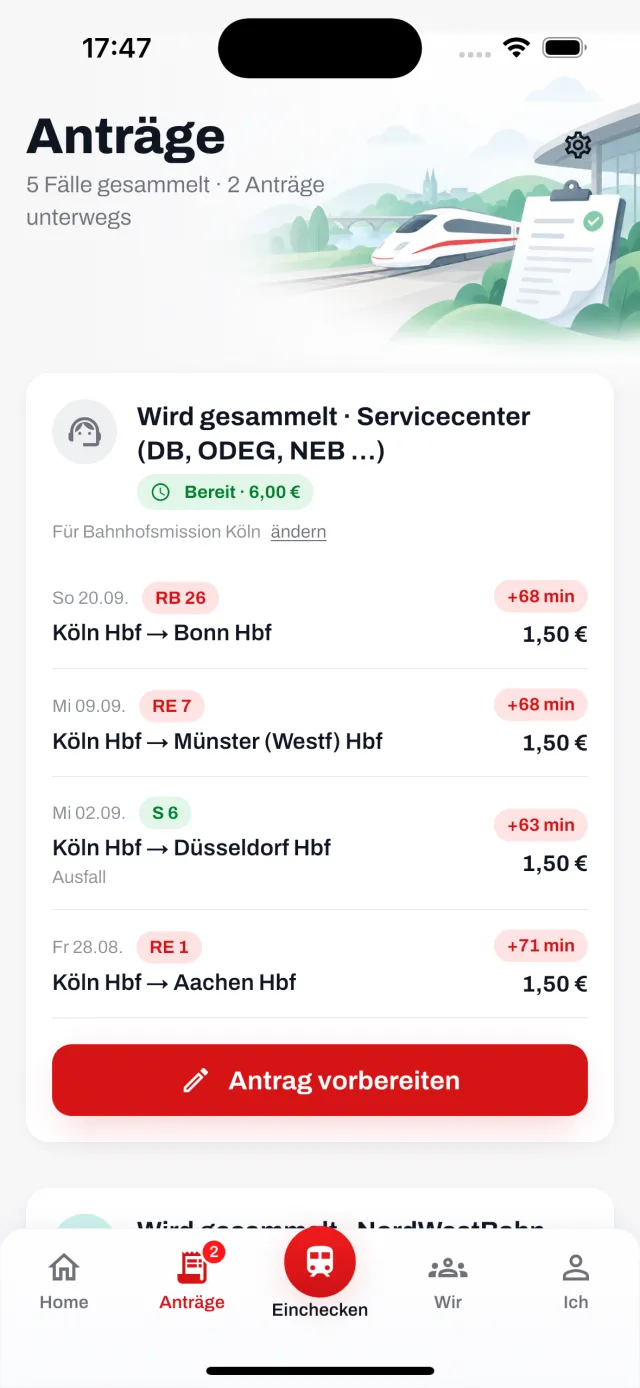
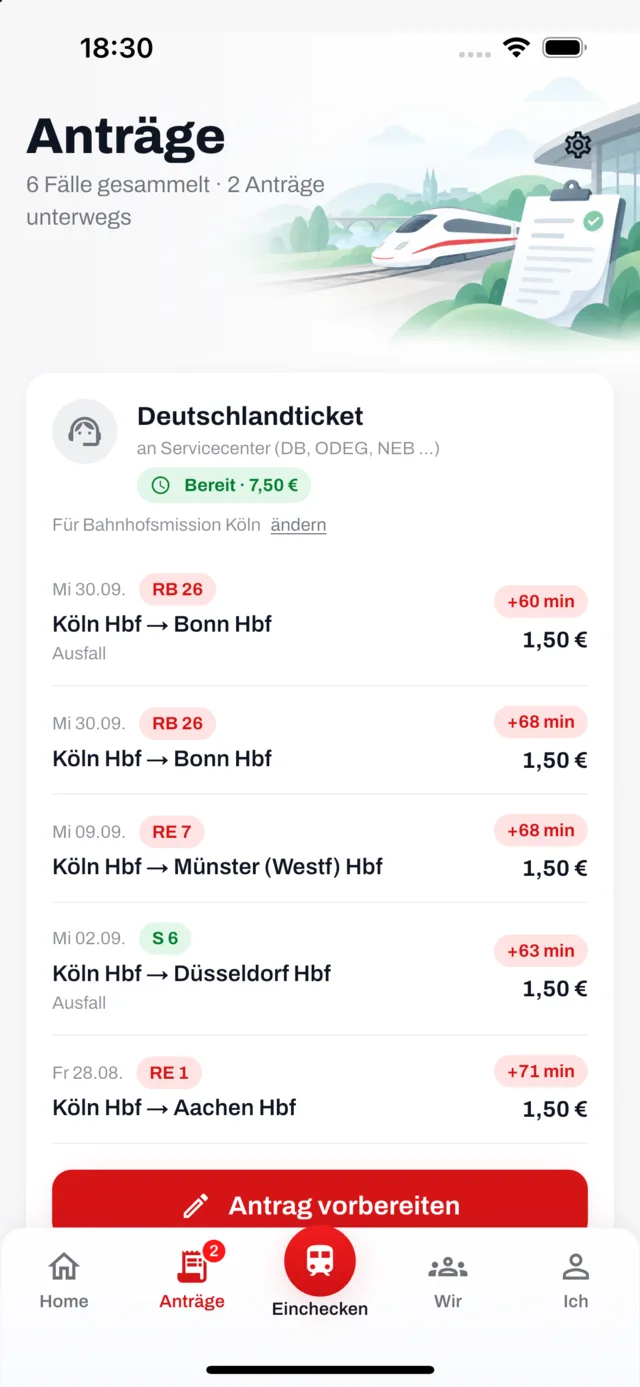
Fahrkarten, Phase 5: unterwegs, Ankunft, Texte, Website (#66)
journeys/current nennt die Fahrkarte der Reise und was sie unterwegs darf. Die Kopfzeile
sagt beim D-Ticket ab 20 Minuten, dass die Verspätung mitzählt, bei einer Fahrkarte mit
Zugbindung ab 20 Minuten, dass sie aufgehoben ist; ab 60 wie bisher. Das Abbrechen-Blatt
nimmt die Fahrkarte der Reise, nicht die Einstellung. Die Ankunft zeigt den Topf des
Falls („Zählt für Deutschlandticket", was fehlt) statt „0,00 €" und drei Punkten.

Website: kein „ab 60 Minuten" mehr für alle, die D-Ticket-Antwort mit den 20 Minuten,
eine neue Frage zu BahnCard 100 und Monatskarte, das Bild der Anträge aus der Tour.
Datenherkunft: Regeln aus dem Tarif, Frist zwölf Monate. E2E und Tour grün.

Claude-Session: https://claude.ai/code/session_01VvDGQD8tbo8MkihBbnJqwn

diff --git a/app/lib/screens/ride/angekommen_screen.dart b/app/lib/screens/ride/angekommen_screen.dart
@@ -12,6 +12,7 @@ import '../share/share_sheet.dart';
 import '../../widgets/ticket.dart';
 import '../community/community_widgets.dart' show BadgeIcon;
 import 'ride_widgets.dart';
+import '../claims/claims_widgets.dart' show potFigure, potMissing;
 
 /// The reveal. The only screen allowed to feel like a reward.
 ///
@@ -171,14 +172,18 @@ class _AngekommenScreenState extends State<AngekommenScreen> {
     final ngoId = incident?.ngoId ?? session.me?.settings.ngoId;
     final ngo = session.ngos.where((n) => n.id == ngoId).firstOrNull;
     final ngoName = ngo?.name ?? 'deinen Zweck';
-    final hasClaim = incident != null || delay >= 60 || cancelled;
+    // The pot this case went into (#66): what it holds, and whether it can go out. Absent from a
+    // server before pots; then the desk, as before.
+    final pot = incident == null ? null : _incidents?.summary.pots.where((p) => p.incidentIds.contains(incident.id)).firstOrNull;
+    final hasClaim = incident != null || (pot == null && (delay >= 60 || cancelled));
     final desk = incident?.desk ?? '';
     final deskSummary = _incidents?.summary.desks.where((d) => d.desk == desk).firstOrNull;
     final openCount = deskSummary?.incidentIds.length ?? (incident == null ? 0 : 1);
-    final ready = deskSummary?.ready ?? result.bundleReady;
+    final ready = pot?.payable ?? deskSummary?.ready ?? result.bundleReady;
     final counted = hasClaim ? openCount.clamp(1, 3) : openCount;
     final amountCents = incident?.amountCents;
-    final canFile = hasClaim && incident != null && (ticket == TicketType.einzelfahrkarte || ready);
+    final canFile = hasClaim && incident != null && (pot != null ? pot.payable : (ticket == TicketType.einzelfahrkarte || ready));
+    final claimRoute = pot != null ? '${Routes.claim}?pot=${Uri.encodeComponent(pot.id)}&desk=${Uri.encodeComponent(desk)}' : '${Routes.claim}?desk=${Uri.encodeComponent(desk)}';
 
     void share() => showShareSheet(
           context,
@@ -197,7 +202,7 @@ class _AngekommenScreenState extends State<AngekommenScreen> {
     final actions = canFile
         ? Column(
             children: [
-              VPrimaryButton(label: 'Jetzt einreichen', onTap: () => context.push('${Routes.claim}?desk=${Uri.encodeComponent(desk)}')),
+              VPrimaryButton(label: 'Jetzt einreichen', onTap: () => context.push(claimRoute)),
               const VGap.s(),
               Row(
                 children: [
@@ -288,7 +293,7 @@ class _AngekommenScreenState extends State<AngekommenScreen> {
             VCard(
               tone: VCardTone.sunken,
               padding: const EdgeInsets.all(VSpace.card),
-              child: _ClaimLine(ticket: ticket, amountCents: amountCents, ngoName: ngoName, counted: counted, ready: ready, pending: incident == null),
+              child: _ClaimLine(ticket: ticket, amountCents: amountCents, ngoName: ngoName, counted: counted, ready: ready, pending: incident == null, pot: pot),
             )
           else ...[
             _NoClaimCard(delay: delay, ngoName: ngoName),
@@ -704,8 +709,11 @@ class _TripLine extends StatelessWidget {
 }
 
 class _ClaimLine extends StatelessWidget {
-  const _ClaimLine({required this.ticket, required this.amountCents, required this.ngoName, required this.counted, required this.ready, required this.pending});
+  const _ClaimLine({required this.ticket, required this.amountCents, required this.ngoName, required this.counted, required this.ready, required this.pending, this.pot});
   final TicketType ticket;
+
+  /// The pot the case went into (#66). Its figures replace the old three-dot count.
+  final ApiPot? pot;
   final int? amountCents;
   final String ngoName;
   final int counted;
@@ -714,6 +722,29 @@ class _ClaimLine extends StatelessWidget {
 
   @override
   Widget build(BuildContext context) {
+    final p = pot;
+    if (p != null) {
+      // Where delays pool, this ride's minutes went into the pot; one ride alone is not an amount,
+      // so the line names the pot and what it holds, and what is missing before it can go out.
+      return Column(
+        crossAxisAlignment: CrossAxisAlignment.start,
+        children: [
+          Row(
+            crossAxisAlignment: CrossAxisAlignment.baseline,
+            textBaseline: TextBaseline.alphabetic,
+            children: [
+              Expanded(child: Text(p.pools ? 'Zählt für ${p.ticketName}' : 'Anspruch entstanden', style: VText.bodyStrong)),
+              // No fare yet: no figure. The line below asks for it.
+              Text(p.blockers.any((b) => b.kind == 'price_missing') ? '–' : fmtEuro((p.pools ? p.amountCents : (amountCents ?? 0)) / 100), style: VText.numberM),
+            ],
+          ),
+          const SizedBox(height: 6),
+          Text('für $ngoName', style: VText.bodyS.copyWith(color: VColors.ink2)),
+          const SizedBox(height: 12),
+          Text(p.payable ? 'Bereit · ${potFigure(p)}' : (p.pools ? '${potFigure(p)}. ${potMissing(p) ?? ''}' : (potMissing(p) ?? potFigure(p))), style: VText.caption),
+        ],
+      );
+    }
     return Column(
       crossAxisAlignment: CrossAxisAlignment.start,
       children: [
@@ -780,7 +811,9 @@ class _NoClaimCard extends StatelessWidget {
                 Text(title, style: VText.bodyStrong),
                 if (delay != 59) ...[
                   const SizedBox(height: VSpace.xs),
-                  Text('Ab 60 Minuten entsteht ein Anspruch. Bis dahin zählen die Minuten, und $ngoName freut sich auch so.', style: VText.bodyS),
+                  // Not „ab 60 Minuten": where delays pool, they count from 20 (#66). The threshold is
+                  // the ticket's; the sentence says only that this one did not reach it.
+                  Text('Für deine Fahrkarte zählt diese Verspätung noch nicht. Die Minuten zählen trotzdem, und $ngoName freut sich auch so.', style: VText.bodyS),
                 ],
               ],
             ),

diff --git a/site/dist/index.html b/site/dist/index.html
@@ -147,7 +147,7 @@
 </span>
         <div>
           <h3>Ankommen</h3>
-          <p>Jede Minute wird gezählt. Ab 60 Minuten entsteht ein Anspruch.</p>
+          <p>Jede Minute wird gezählt. Wann daraus ein Anspruch wird, hängt an deiner Fahrkarte.</p>
         </div>
       </li>
       
@@ -182,7 +182,7 @@
   </svg>
 </span>
       <h3>Deine Verspätung bewirkt etwas.</h3>
-      <p>Jede Minute zählt für dich. Ab 60 Minuten entsteht ein gesetzlicher Anspruch — und der geht an einen Verein, nicht an uns.</p>
+      <p>Jede Minute zählt für dich. Wird daraus ein gesetzlicher Anspruch, geht er an einen Verein, nicht an uns.</p>
     </aside>
   </div>
 </section>
@@ -205,7 +205,7 @@
     </figure>
     
     <figure class="schuss">
-      <img src="/shots/antraege.webp" alt="Der Antragsschalter: vier gesammelte Fälle — drei Verspätungen und ein Ausfall — zusammen 6,00 Euro für die Bahnhofsmission Köln, bereit für den Antrag. Darunter beginnt ein zweites Bündel." width="640" height="1387" loading="lazy" decoding="async">
+      <img src="/shots/antraege.webp" alt="Der Antragsschalter, eine Karte je Fahrkarte: das Deutschlandticket mit fünf gesammelten Fällen — drei Verspätungen und zwei Ausfälle — zusammen 7,50 Euro für die Bahnhofsmission Köln, bereit für den Antrag." width="640" height="1387" loading="lazy" decoding="async">
       <figcaption>Der Antrag, bereit</figcaption>
     </figure>
     
@@ -296,12 +296,17 @@
     
     <details>
       <summary>Ab wann gibt es überhaupt Geld?</summary>
-      <p>Ab 60 Minuten Verspätung am Ziel: 25 % des Fahrpreises. Ab 120 Minuten: 50 %. Darunter gibt es keinen gesetzlichen Anspruch — gezählt werden deine Minuten trotzdem.</p>
+      <p>Mit einer Einzelfahrkarte ab 60 Minuten Verspätung am Ziel: 25 % des Fahrpreises, ab 120 Minuten 50 %. Mit einer Zeitkarte gibt es feste Beträge, siehe unten. Gezählt werden deine Minuten in jedem Fall.</p>
     </details>
     
     <details>
       <summary>Und mit dem Deutschlandticket?</summary>
-      <p>Da sind es pauschal 1,50 € im Nahverkehr. Auszahlen muss die Bahn erst ab 4 €, deshalb sammelt Verspätomat, bis drei Verspätungen zusammenkommen, und schickt sie als einen Antrag.</p>
+      <p>Da zählt jede Verspätung ab 20 Minuten mit: die Minuten werden zusammengerechnet, je volle Stunde gibt es 1,50 €. Auszahlen muss die Bahn erst über 4 €, deshalb sammelt Verspätomat, bis drei volle Stunden zusammenkommen, und schickt sie als einen Antrag.</p>
+    </details>
+    
+    <details>
+      <summary>Und mit BahnCard 100 oder Monatskarte?</summary>
+      <p>Die BahnCard 100 bringt ab 60 Minuten 10 € je Fahrt, in der 1. Klasse 15 €. Monats- und Jahreskarten der Verbünde meist 1,50 € je Fahrt ab 60 Minuten, im Einzelnen nach dem Tarif des Verbunds. Du legst deine Fahrkarte in der App an; was sie bringt, steht dort.</p>
     </details>
     
     <details>

diff --git a/app/lib/screens/ride/unterwegs_screen.dart b/app/lib/screens/ride/unterwegs_screen.dart
@@ -321,6 +321,9 @@ String _minutes(int n) => '$n ${n == 1 ? 'Minute' : 'Minuten'}';
   final toExit = toExitRaw == null || toExitRaw < 0 ? null : toExitRaw;
   final info = j?.currentLegInfo;
   final claimFrom = m.journey?.claimFromMinute ?? 60;
+  // The journey's ticket (#66): where delays pool, they count from its own threshold; a ticket
+  // with a Zugbindung has it lifted from its own minute on.
+  final ticket = m.journey?.ticket;
 
   if (r.cancelled) {
     return (
@@ -349,12 +352,32 @@ String _minutes(int n) => '$n ${n == 1 ? 'Minute' : 'Minuten'}';
     );
   }
 
-  // A claim outranks the welcome: someone boarding an hour late checked in for this line.
+  // A delay that counts outranks the welcome: someone boarding an hour late checked in for this line.
+  // Where the ticket pools its delays, the minutes count from its own threshold and the sentence
+  // says so; one delay alone does not make an amount there. Otherwise a claim starts at the hour.
+  if (ticket != null && ticket.pools && delay >= ticket.countsFromMinute) {
+    return (
+      eyebrow: 'Unterwegs · ${r.line}',
+      title: '+${_minutes(delay)}.',
+      subtitle: 'Ab hier zählt die Verspätung für ${ticket.name} mit.',
+      track: _track(next?.platform) ?? _track(info?.arrivalPlatform),
+    );
+  }
   if (delay >= claimFrom) {
     return (
       eyebrow: 'Unterwegs · ${r.line}',
       title: '+${_minutes(delay)}.',
       subtitle: 'Ab hier entsteht ein Anspruch.',
+      track: _track(next?.platform) ?? _track(info?.arrivalPlatform),
+    );
+  }
+  // A ticket bound to its train is free of it from here (BB 9.1.1): the one right on the way that
+  // is worth saying before there is any money.
+  if (ticket != null && !ticket.reducedFare && ticket.releaseAfterMin > 0 && delay >= ticket.releaseAfterMin) {
+    return (
+      eyebrow: 'Unterwegs · ${r.line}',
+      title: '+${_minutes(delay)}.',
+      subtitle: 'Deine Zugbindung ist aufgehoben: du darfst einen anderen Zug nehmen.',
       track: _track(next?.platform) ?? _track(info?.arrivalPlatform),
     );
   }
@@ -1229,7 +1252,8 @@ Future<void> showAbortSheet(BuildContext context, RideMonitor monitor) {
                   trailing: const Icon(Icons.chevron_right, size: 22, color: VColors.ink2),
                   onTap: () async {
                     Navigator.of(ctx).pop();
-                    final ticket = RepoScope.read(context).me?.settings.ticket;
+                    // The journey's own ticket (#66), not the setting: that was chosen at check-in.
+                    final ticket = monitor.journey?.ticket?.legacy ?? RepoScope.read(context).me?.settings.ticket;
                     await _abortAction(context, monitor, () => monitor.finish(arrived: false, reason: 'aufgegeben'));
                     if (context.mounted) await showGaveUpSheet(context, ticket, monitor.lastAbandonMinutes);
                   },

diff --git a/app/lib/screens/community/datenherkunft_screen.dart b/app/lib/screens/community/datenherkunft_screen.dart
@@ -22,9 +22,9 @@ const _rows = <_Row>[
   _Row('Verspätung an deinem Ausstieg (die Zahl, die zählt)', 'Geplante Ankunft aus dem Fahrplan, tatsächliche Ankunft aus den Live-Daten, an dem Halt, den du gewählt hast.', fresh: 'Endgültig ein paar Minuten nach Ankunft'),
   _Row('Ursache („Stellwerksstörung“)', 'Die Störungsmeldung des Betreibers, wenn er eine veröffentlicht.', fresh: 'Mit der Verspätung', missing: 'Kein Abzeichen, sonst ändert sich nichts.'),
   _Row('Minuten', 'Aus der endgültigen Verspätung am Ziel gezählt, ein Ausfall mit 60.', fresh: 'Sofort bei Ankunft'),
-  _Row('„Anspruch: 1,50 €“', 'Die gesetzlichen Regeln für deinen Tickettyp, angewendet auf die endgültige Verspätung. Die Regeln stehen in der App und verlinken auf die offizielle DB-Seite.', fresh: 'Sofort bei Ankunft'),
+  _Row('„Anspruch: 1,50 €“', 'Die Regeln deiner Fahrkarte aus ihrem Tarif (Beförderungsbedingungen der DB, Deutschlandtarif, Tarif deines Verbunds), angewendet auf die endgültige Verspätung. Beim Deutschlandticket und anderen Zeitkarten des Deutschlandtarifs werden Verspätungen ab 20 Minuten zusammengerechnet.', fresh: 'Sofort bei Ankunft'),
   _Row('Kontostatus: gesammelt, bereit, eingereicht, bestätigt, verfallen', 'gesammelt und bereit: von der App berechnet. eingereicht: dein Antrag hat deine Verspätomat-Adresse verlassen. bestätigt oder abgelehnt: die E-Mail-Antwort der Bahn an diese Adresse, gelesen nach Betrag und Ergebnis, oder dein Foto einer Postantwort, oder die Meldung des Vereins. verfallen: die Frist ist vorbei.', fresh: 'Antworten: sofort bei Eingang', missing: 'Eine Antwort, die wir nicht lesen können, zeigen wir dir, damit du das Ergebnis einträgst.'),
-  _Row('„Älteste Verspätung verfällt in 3 Wochen“', 'Drei Monate nach dem Fahrtdatum, die gesetzliche Frist.', fresh: 'Täglich'),
+  _Row('„Älteste Verspätung verfällt in 3 Wochen“', 'Zwölf Monate nach dem Fahrtdatum, bei manchen Tarifen früher (MVV, FlixTrain). Einreichen solltest du in drei Monaten; daran erinnern wir.', fresh: 'Täglich'),
   _Row('Name, Anschrift, Ticketnummer auf dem Antrag', 'Von dir eingetippt, beim ersten Antrag. Gespeichert auf deinem Telefon.', missing: 'Wird beim Antrag abgefragt.'),
   _Row('Ticket-Screenshot auf dem Antrag', 'Von dir angehängt, aus deiner Ticket-App oder den Fotos. Verschlüsselt aufbewahrt, nur solange der Antrag offen ist, falls die Bahn nachfragt.', missing: 'Ohne Screenshot geht kein Antrag raus.'),
   _Row('Deine Verspätomat-Adresse', 'Von uns angelegt, bei deinem ersten Antrag. Dein Name ist der Absendername. Jede Mail raus geht in Kopie an deine private E-Mail-Adresse; jede Mail rein wird komplett dorthin weitergeleitet.'),

diff --git a/app/lib/api/models.dart b/app/lib/api/models.dart
@@ -1703,7 +1703,7 @@ class ApiJourney {
 
 /// `GET /v1/journeys/current`: the journey plus the live view of its current leg.
 class ApiJourneyLive {
-  const ApiJourneyLive({required this.journey, this.ride, this.stops = const [], this.eta, this.nextLeg, this.justArrived = false, this.claimFromMinute = 60});
+  const ApiJourneyLive({required this.journey, this.ride, this.stops = const [], this.eta, this.nextLeg, this.justArrived = false, this.claimFromMinute = 60, this.ticket});
   final ApiJourney journey;
   final ApiRide? ride;
   final List<ApiStop> stops;
@@ -1711,6 +1711,10 @@ class ApiJourneyLive {
   final ApiLeg? nextLeg;
   final bool justArrived;
   final int claimFromMinute;
+
+  /// The journey's ticket and what it is entitled to on the way (#66). Null from a server before
+  /// tickets.
+  final ApiJourneyTicket? ticket;
 
   /// The same view the old ride screens consume, for the current leg.
   ApiRideLive? get asRideLive => ride == null ? null : ApiRideLive(ride: ride!, stops: stops, eta: eta);
@@ -1725,8 +1729,35 @@ class ApiJourneyLive {
       nextLeg: _m(j['next_leg']) == null ? (_m(jm['next_leg']) == null ? null : ApiLeg.fromJson(_m(jm['next_leg'])!)) : ApiLeg.fromJson(_m(j['next_leg'])!),
       justArrived: _b(j['just_arrived']),
       claimFromMinute: _i(j['claim_from_minute'], 60),
+      ticket: _m(j['ticket']) == null ? null : ApiJourneyTicket.fromJson(_m(j['ticket'])!),
     );
   }
+}
+
+/// A journey's ticket as the ride screen needs it: from which minute a delay counts for it, from
+/// which minute its Zugbindung is lifted, whether it may switch to a higher train.
+class ApiJourneyTicket {
+  const ApiJourneyTicket({required this.name, required this.product, required this.family, this.countsFromMinute = 60, this.pools = false, this.releaseAfterMin = 0, this.reducedFare = false});
+  final String name;
+  final String product;
+  final String family;
+  final int countsFromMinute;
+  final bool pools;
+  final int releaseAfterMin;
+  final bool reducedFare;
+
+  /// The old type, for the sheets that still speak in it.
+  TicketType get legacy => family == 'deutschlandticket' ? TicketType.deutschlandticket : (family == 'einzelfahrkarte' ? TicketType.einzelfahrkarte : TicketType.zeitkarte);
+
+  factory ApiJourneyTicket.fromJson(Map<String, dynamic> j) => ApiJourneyTicket(
+        name: _s(j['name']),
+        product: _s(j['product']),
+        family: _s(j['family']),
+        countsFromMinute: _i(j['counts_from_minute'], 60),
+        pools: _b(j['pools']),
+        releaseAfterMin: _i(j['release_after_min']),
+        reducedFare: _b(j['reduced_fare']),
+      );
 }
 
 class StartJourneyRequest {

diff --git a/backend/src/journeys.rs b/backend/src/journeys.rs
@@ -243,6 +243,25 @@ fn legacy_ride_as_journey(r: &RideRow) -> Value {
     })
 }
 
+/// The ticket of a journey for the ride screen: its name, from which minute a delay counts for it,
+/// from which minute its Zugbindung is lifted, and whether it may switch to a higher train.
+async fn journey_ticket_json(pool: &PgPool, j: &JourneyRow) -> anyhow::Result<Value> {
+    let t: Option<TicketRow> = sqlx::query_as("select t.* from journey_tickets jt join tickets t on t.id = jt.ticket_id where jt.journey_id = $1 order by jt.first_leg desc limit 1").bind(j.id).fetch_optional(pool).await?;
+    let Some(t) = t else { return Ok(Value::Null) };
+    let p = crate::tickets::product_of(&t);
+    let rule = p.rule_on(j.planned_departure.date_naive());
+    Ok(json!({
+        "id": t.id,
+        "name": crate::tickets::ticket_json(&t)["name"],
+        "product": p.id,
+        "family": p.family,
+        "counts_from_minute": rule.compensation.threshold(),
+        "pools": matches!(rule.compensation, crate::fares::Compensation::MinutePool { .. }),
+        "release_after_min": rule.release_after_min,
+        "reduced_fare": rule.reduced_fare,
+    }))
+}
+
 /// `journeys/current` payload: the journey, the current (or last) leg with its stops, the proposal.
 pub async fn current_payload(s: &AppState, j: &JourneyRow, just_arrived: bool) -> anyhow::Result<Value> {
     let ride: Option<RideRow> = sqlx::query_as("select * from rides where journey_id = $1 order by leg_no desc limit 1").bind(j.id).fetch_optional(&s.pool).await?;
@@ -269,7 +288,10 @@ pub async fn current_payload(s: &AppState, j: &JourneyRow, just_arrived: bool) -
         "eta": eta,
         "next_leg": j.next_leg,
         "just_arrived": just_arrived,
+        // What builds before tickets read: from here one delay on its own is worth something.
         "claim_from_minute": 60,
+        // The journey's ticket and what it is entitled to on the way (#66, docs/49 §2.3).
+        "ticket": journey_ticket_json(&s.pool, j).await?,
     }))
 }
 

diff --git a/docs/50-plan-fahrkarten.md b/docs/50-plan-fahrkarten.md
@@ -423,3 +423,13 @@ jetzt (fiel in der E2E auf: zuerst bekam er den des ganzen Topfs).
 Offen aus Phase 4: ein Upload für den Preisnachweis (bisher nur, dass das Produkt einen will);
 „Ticket-Nr." steht noch in den persönlichen Daten und wird mit der Nummer des D-Tickets
 gleichgehalten.
+
+**Phase 5** — 30. September 2026: Die Fahrt kennt ihre Fahrkarte (`ticket` in `journeys/current`:
+ab welcher Minute sie zählt, ab wann die Zugbindung fällt, ob erheblich ermäßigt). Unterwegs sagt
+die Kopfzeile beim Minuten-Topf ab 20 Minuten „Ab hier zählt die Verspätung für … mit", bei einer
+Fahrkarte mit Zugbindung ab 20 Minuten „Deine Zugbindung ist aufgehoben", ab 60 wie bisher „Ab hier
+entsteht ein Anspruch". Das Abbrechen-Blatt liest die Fahrkarte der Reise statt der Einstellung.
+Die Ankunft zeigt den Topf des Falls statt der drei Punkte, „Jetzt einreichen" nur, wenn er raus
+kann. Website (Fahrplan, FAQ zum D-Ticket, neue Frage zu BahnCard 100 und Monatskarte, Bild der
+Anträge) und Datenherkunft (Regeln, Frist) nachgezogen. `unterwegs.webp` bleibt: die Demo-Fahrt
+hat keine Fahrkarte und sieht aus wie vorher.
